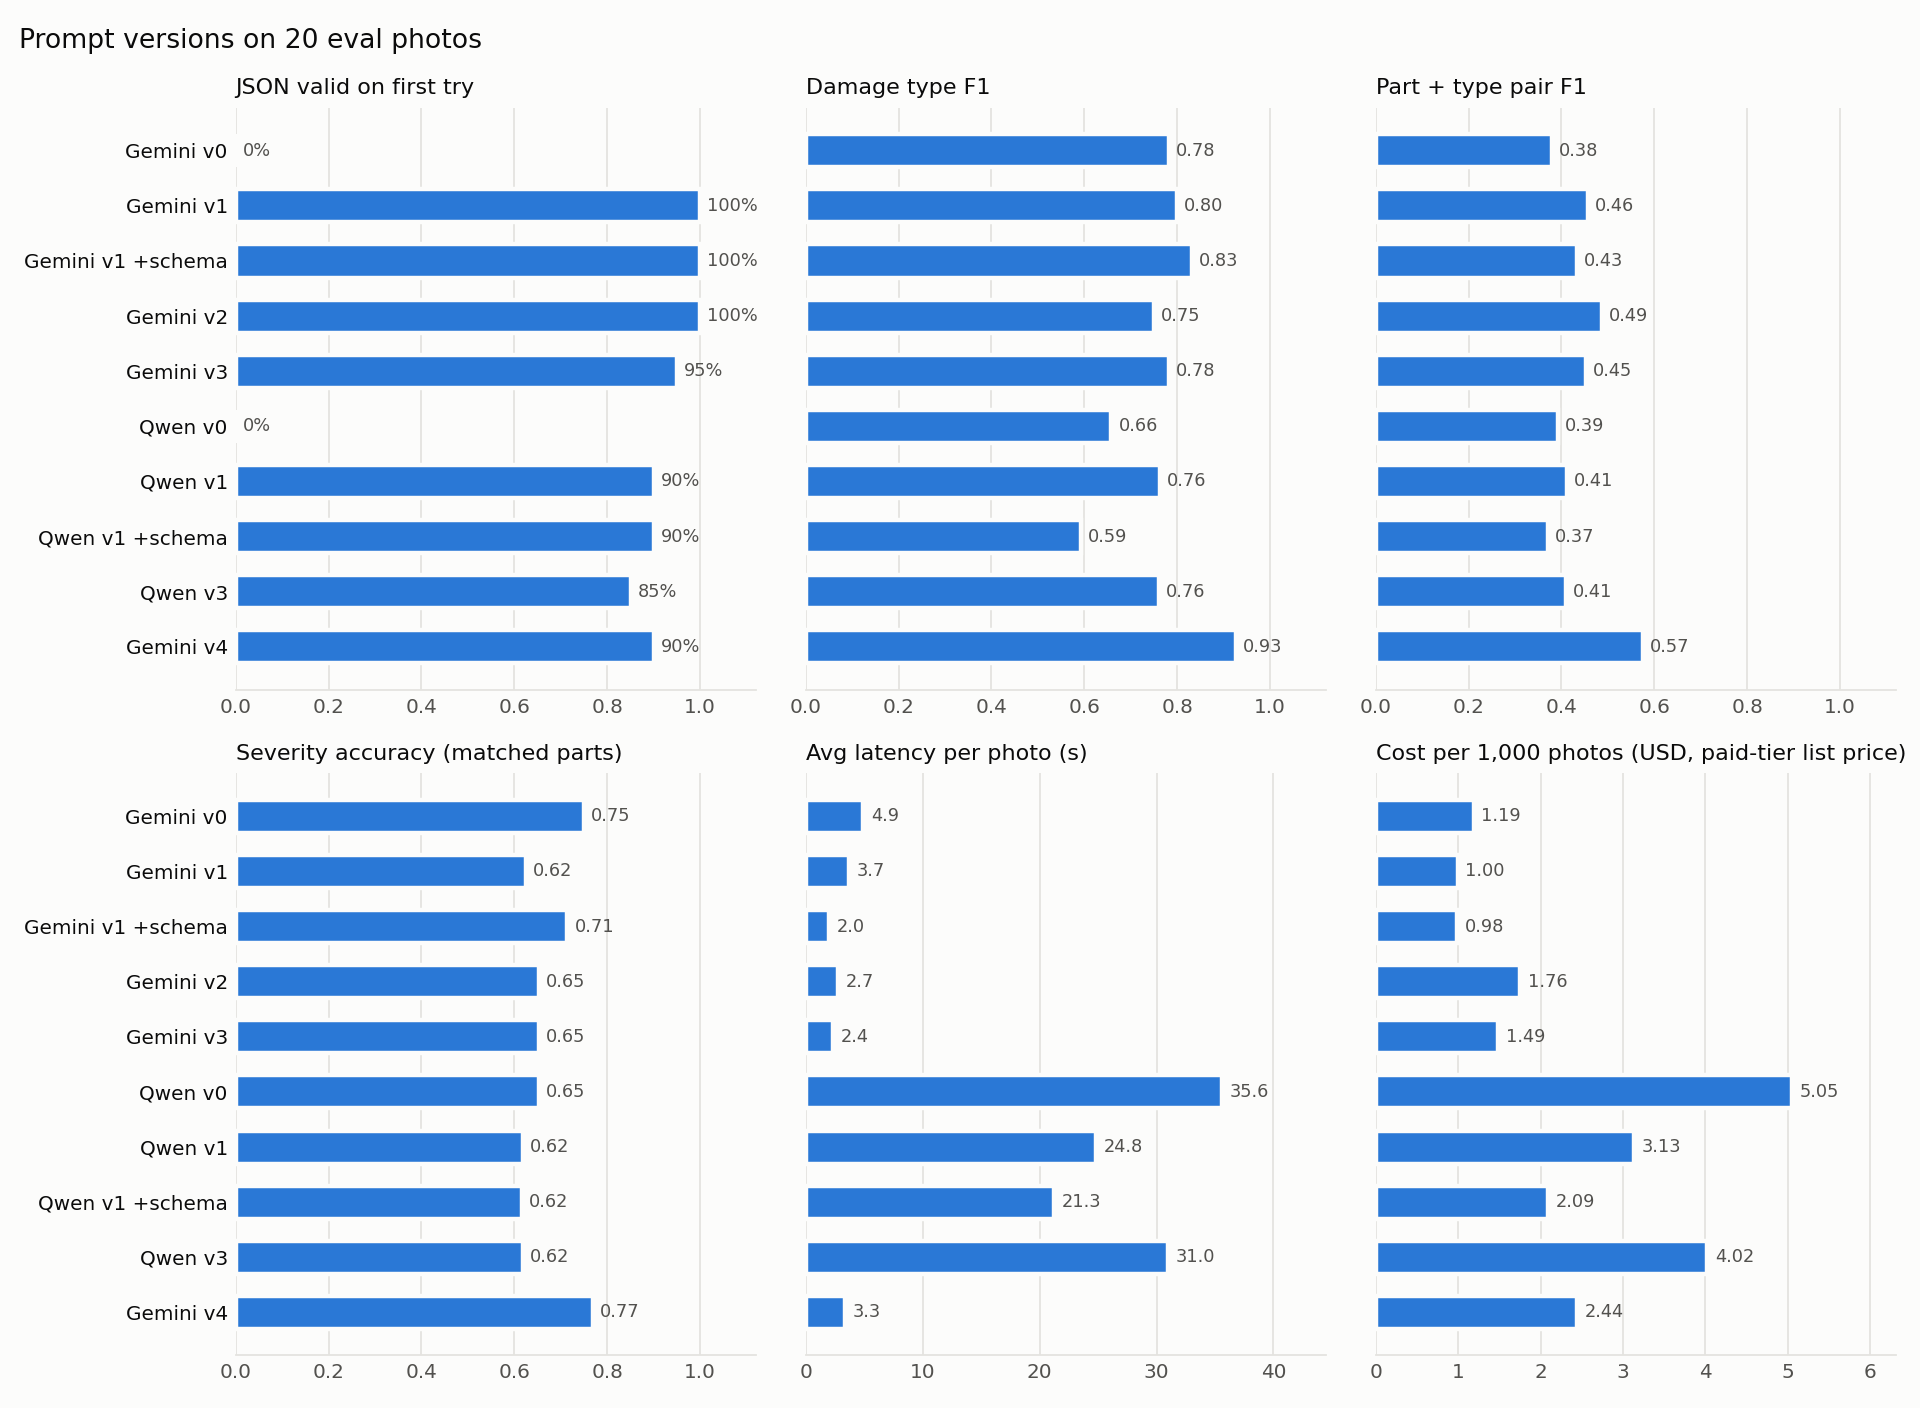
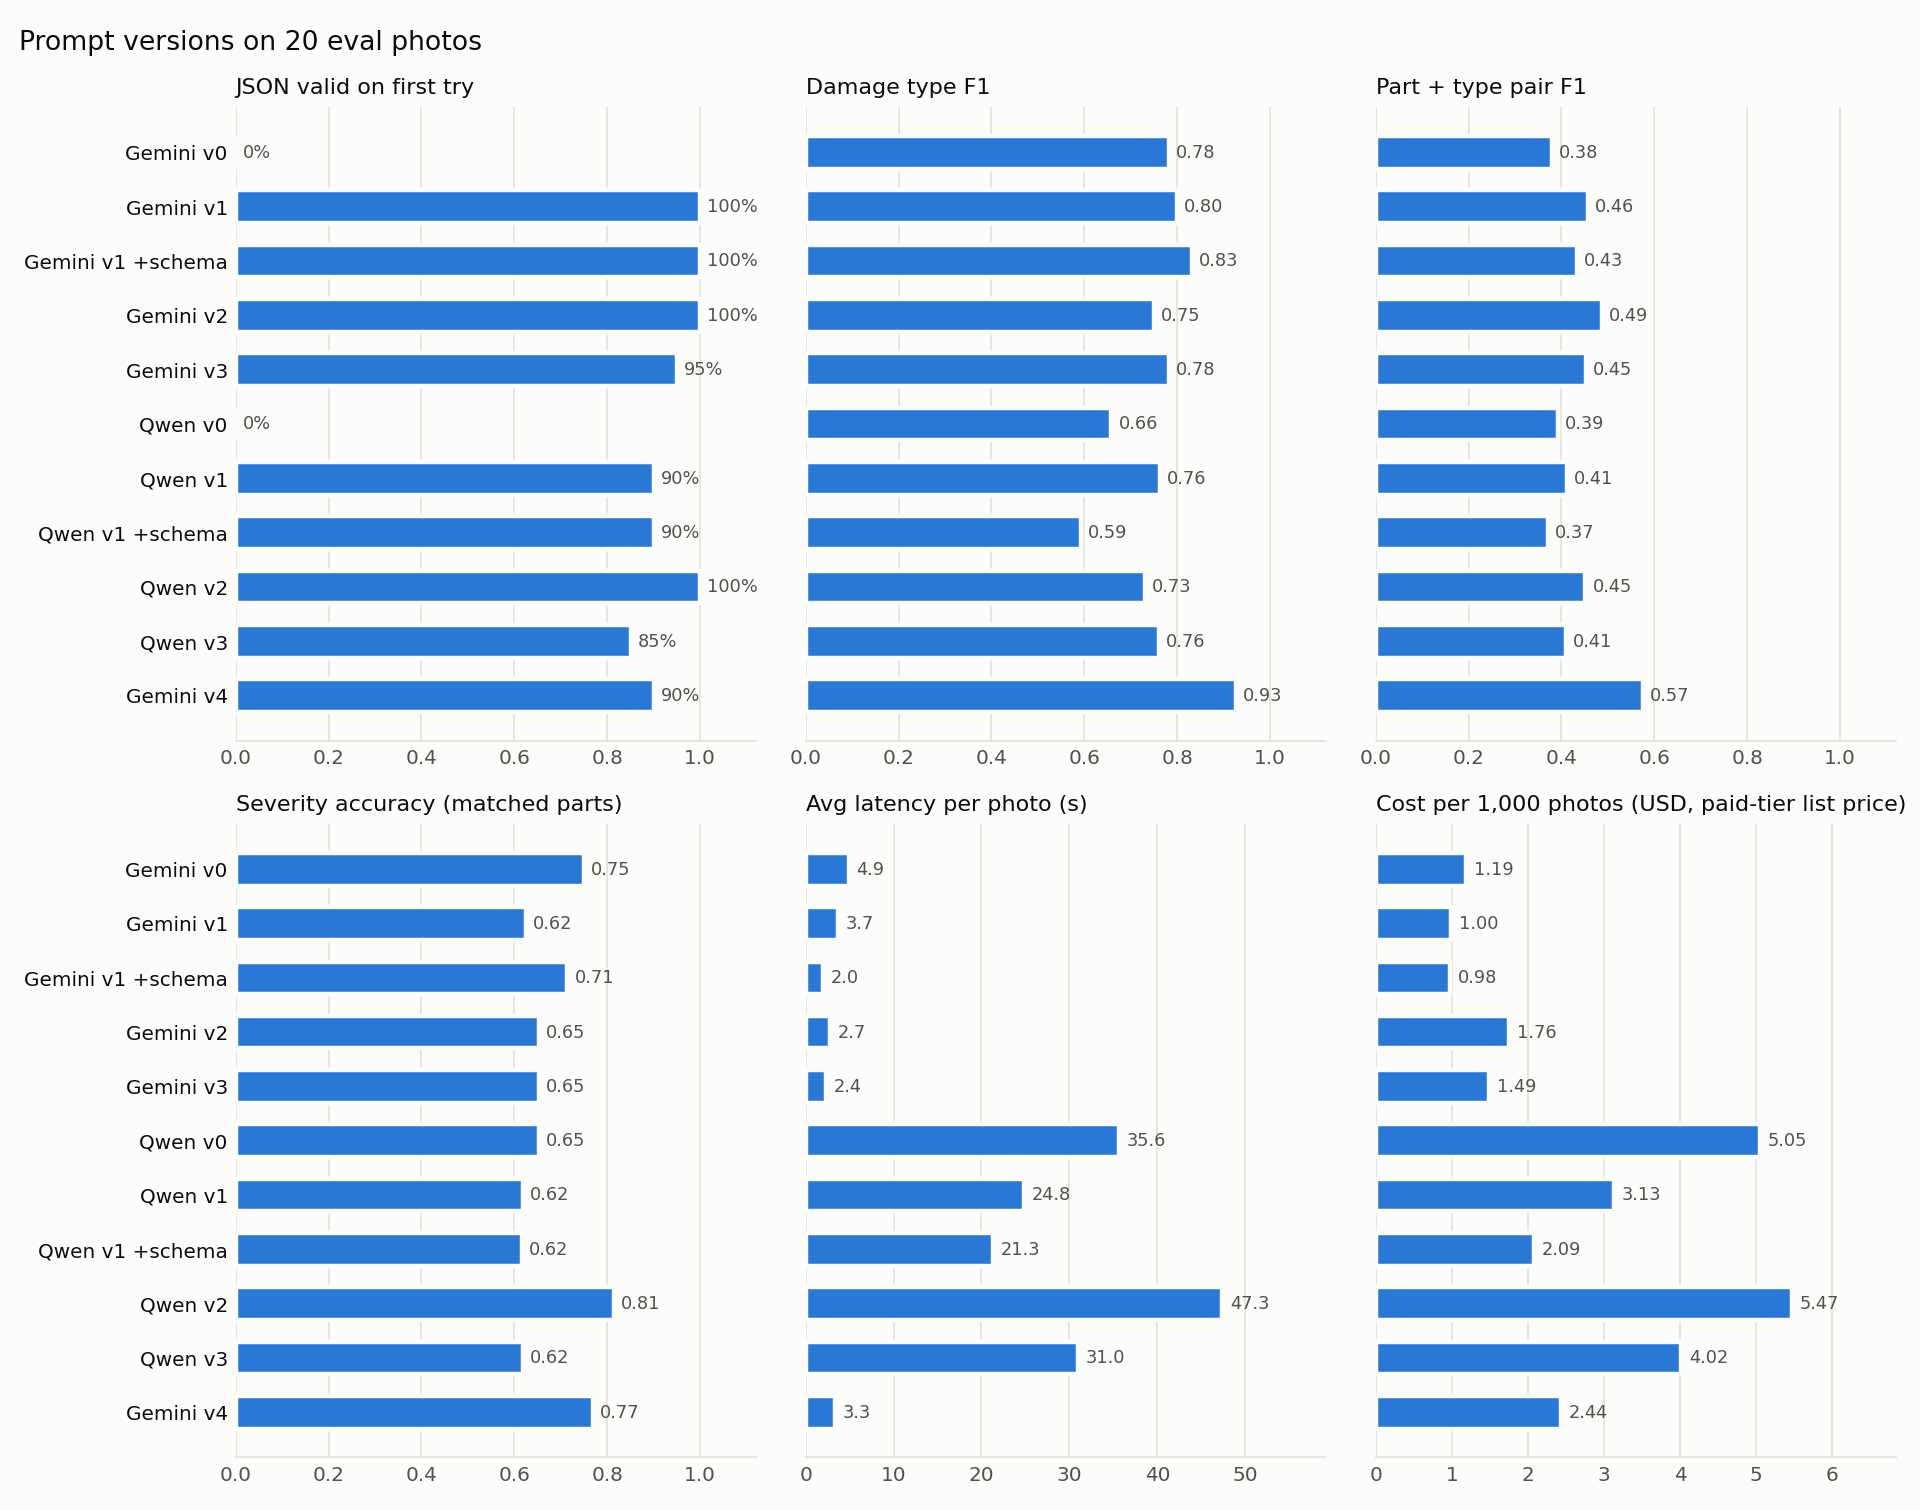
results: complete Qwen v2 evaluation and update report

diff --git a/docs/role1/RESULTS.md b/docs/role1/RESULTS.md
@@ -24,9 +24,9 @@ The runner records predictions and per-image outcomes under `eval/results/`. The
 | Qwen/Groq / v1 structured | 20 | .763 (.595–.891) | .450 (.250–.651) | 90% | 0.10 | 24.787 | 2,408 / 302 | .003133 |
 | Qwen/Groq / v1 + schema | 20 | .593 (.367–.772) | .400 (.200–.650) | 90% | 0.00 | 21.268 | 2,070 / 108 | .002086 |
 | Qwen/Groq / v3 CoT | 20 | .761 (.653–.849) | .350 (.150–.550) | 85% | 0.10 | 30.993 | 2,524 / 500 | .004018 |
-| Qwen/Groq / v2 few-shot | 6/20, partial | — | — | — | — | — | — | — |
+| Qwen/Groq / v2 few-shot | 20 | .730 (.581–.850) | .400 (.200–.600) | 100% | 0.00 | 47.335 | 5,633 / 241 | .005469 |
 
-The planned eight-way matrix has seven complete configurations. Qwen v2 stopped at `eval_07` when quota was exhausted; six predictions were recorded. Its summary row marks the run partial and leaves its metrics blank, so no metrics are reported here. Qwen v4 is an extra configuration and was not run.
+All eight planned model/strategy configurations completed a 20-image pass. Qwen v4 is an extra configuration and was not run.
 
 ## Metrics and interpretation
 
@@ -36,15 +36,15 @@ The planned eight-way matrix has seven complete configurations. Qwen v2 stopped 
 - **Average retries:** mean repair attempts per image. Latency and token counts are the per-image means recorded by the runner. Cost is calculated by `eval/run_eval.py` from its configured model rates and recorded token counts.
 - **Bootstrap CIs:** image-level resampling, not independent damage-region resampling. With 20 images, one image is 5 percentage points of exact-set accuracy.
 
-No same-model strategy comparison has non-overlapping damage-type or part-exact bootstrap intervals. Across all completed rows, the only non-overlapping damage-type intervals are Gemini v4 versus Qwen v0, Qwen v1 + schema, and Qwen v3. These are cross-model comparisons; they do not isolate a prompt-strategy effect. No part-exact intervals are disjoint. Therefore, the observed score differences are not evidence of a stable improvement across this small sample. Changes no larger than one image are especially not treated as improvements.
+No same-model strategy comparison has non-overlapping damage-type or part-exact bootstrap intervals. Across all completed rows, the only non-overlapping damage-type intervals are Gemini v4 versus Qwen v0, Qwen v1 + schema, Qwen v2, and Qwen v3. These are cross-model comparisons; they do not isolate a prompt-strategy effect. No part-exact intervals are disjoint. Therefore, the observed score differences are not evidence of a stable improvement across this small sample. Changes no larger than one image are especially not treated as improvements.
 
 Gemini v4 has the highest observed damage-type F1, but it was selected after inspecting these same eval images, so that score is optimistic. The separate Gemini dev check does not confirm the same result: v4 damage-type F1 is .667 on 8 dev images versus .925 on eval, and exact part-set match is 3/8 versus 14/20. The dev labels are unverified, so this check is indicative only.
 
 ## Failure modes and operational trade-offs
 
-The per-image files contain 70 expected-to-opposite-side prediction pairs across the 10 complete configurations. This count repeats the same image when it is evaluated under different prompts; it is not 70 independent images. Side errors persist even in v4 and in CoT. In the `dev_05` mock, the image and label show the car's left side, while the incident text says “driver side”; those conflict for an India right-hand-drive car. The visual-side label is not evidence that the model reversed left and right.
+The per-image files contain 73 expected-to-opposite-side prediction pairs across the 11 complete configurations. This count repeats the same image when it is evaluated under different prompts; it is not 73 independent images. Side errors persist even in v4 and in CoT. In the `dev_05` mock, the image and label show the car's left side, while the incident text says “driver side”; those conflict for an India right-hand-drive car. The visual-side label is not evidence that the model reversed left and right.
 
-Qwen is identified as a 27B model in `docs/role1/DECISIONS.md`; a Gemini parameter count is not reported in this repo. On the matched v1 runs, Qwen averaged 24.787 seconds and $0.003133 per image, versus Gemini's 3.702 seconds and $0.000996. The comparison reflects these recorded runs, not a general model ranking. Qwen v2 has only a partial run and cannot be compared.
+Qwen is identified as a 27B model in `docs/role1/DECISIONS.md`; a Gemini parameter count is not reported in this repo. On the matched v1 runs, Qwen averaged 24.787 seconds and $0.003133 per image, versus Gemini's 3.702 seconds and $0.000996. Qwen v2 recorded .730 damage-type F1 and .400 part exact at 47.335 seconds and $0.005469 per image. These comparisons reflect the recorded runs, not a general model ranking.
 
 ![Evaluation metric panels](../../eval/results/metrics_by_config.png)
 
@@ -54,7 +54,7 @@ Qwen is identified as a 27B model in `docs/role1/DECISIONS.md`; a Gemini paramet
 
 - The eval set is only 20 images; the plan discussed a larger set, but that has not been run.
 - v4 was selected after inspecting the same eval set used for its score.
-- Qwen v2 is incomplete at 6/20; the other three planned Qwen configurations completed 20-image passes. Qwen v1 + schema and v3 include provider-error outputs.
+- All eight planned configurations completed 20-image passes. Qwen v1 + schema and v3 include provider-error outputs.
 - All 10 dev labels are unverified, including both few-shot examples. The 20 eval labels are marked `aarti_verified`.
 - The dev check is small and uses unverified labels. Confidence intervals are wide and overlapping; they do not establish generalization.
 - Qwen v4 is an extra, not-run configuration.

diff --git a/docs/role1/REPORT.md b/docs/role1/REPORT.md
@@ -54,7 +54,7 @@ Damage-type F1 is the micro-aggregated F1 over each image's distinct damage-type
 
 ## III. Results
 
-Seven of the eight planned model/strategy configurations completed a 20-image pass. Qwen v2 stopped after six images when the Groq daily quota was exhausted. Qwen v1 + schema and v3 completed 20-image runs but include provider-error outputs.
+All eight planned model/strategy configurations completed a 20-image pass. Qwen v1 + schema and v3 completed 20-image runs but include provider-error outputs.
 
 | Model / prompt | Images | Damage-type F1 (95% CI) | Part exact (95% CI) | First-try JSON | Avg. retries | Latency (s) | Avg. tokens in/out | Cost (USD/image) |
 |---|---:|---:|---:|---:|---:|---:|---:|---:|
@@ -68,13 +68,13 @@ Seven of the eight planned model/strategy configurations completed a 20-image pa
 | Qwen/Groq / v1 structured | 20 | .763 (.595–.891) | .450 (.250–.651) | 90% | 0.10 | 24.787 | 2,408 / 302 | .003133 |
 | Qwen/Groq / v1 + schema | 20 | .593 (.367–.772) | .400 (.200–.650) | 90% | 0.00 | 21.268 | 2,070 / 108 | .002086 |
 | Qwen/Groq / v3 CoT | 20 | .761 (.653–.849) | .350 (.150–.550) | 85% | 0.10 | 30.993 | 2,524 / 500 | .004018 |
-| Qwen/Groq / v2 few-shot | 6/20, partial | not run yet | not run yet | not run yet | not run yet | not run yet | not run yet | not run yet |
+| Qwen/Groq / v2 few-shot | 20 | .730 (.581–.850) | .400 (.200–.600) | 100% | 0.00 | 47.335 | 5,633 / 241 | .005469 |
 
-Gemini v4 has the highest observed damage-type F1, .925 (95% CI .866–.984), and part exact match .700 (95% CI .500–.900). It averaged 4,979 input tokens and 378 output tokens per image, 3.328 seconds latency, and $0.002439 per image. On the matched v1 runs, Gemini recorded .800 damage-type F1 and .650 part exact match at 3.702 seconds and $0.000996 per image; Qwen recorded .763 and .450 at 24.787 seconds and $0.003133 per image.
+Gemini v4 has the highest observed damage-type F1, .925 (95% CI .866–.984), and part exact match .700 (95% CI .500–.900). It averaged 4,979 input tokens and 378 output tokens per image, 3.328 seconds latency, and $0.002439 per image. On the matched v1 runs, Gemini recorded .800 damage-type F1 and .650 part exact match at 3.702 seconds and $0.000996 per image; Qwen recorded .763 and .450 at 24.787 seconds and $0.003133 per image. Qwen v2 recorded .730 damage-type F1 and .400 part exact match at 47.335 seconds and $0.005469 per image.
 
-No same-model strategy comparison has non-overlapping bootstrap intervals for damage-type F1 or part exact match. The only separated damage-type intervals among completed configurations are cross-model comparisons involving Gemini v4 and Qwen v0, Qwen v1 + schema, or Qwen v3. These do not isolate prompt effects. No part-exact intervals are disjoint. The observed score differences therefore do not establish a stable prompt improvement.
+No same-model strategy comparison has non-overlapping bootstrap intervals for damage-type F1 or part exact match. The only separated damage-type intervals among completed configurations are cross-model comparisons involving Gemini v4 and Qwen v0, Qwen v1 + schema, Qwen v2, or Qwen v3. These do not isolate prompt effects. No part-exact intervals are disjoint. The observed score differences therefore do not establish a stable prompt improvement.
 
-The v4 eval score is optimistic because v4 was selected after inspecting the same 20 eval images. On the separate, unverified dev labels, v4 damage-type F1 is .667 over 8 images and part exact is 3/8, versus .925 and 14/20 on eval. Side confusion also remains: the per-image records contain 70 expected-to-opposite-side prediction pairs across 10 completed configurations, counting repeated image/configuration cases rather than independent examples.
+The v4 eval score is optimistic because v4 was selected after inspecting the same 20 eval images. On the separate, unverified dev labels, v4 damage-type F1 is .667 over 8 images and part exact is 3/8, versus .925 and 14/20 on eval. Side confusion also remains: the per-image records contain 73 expected-to-opposite-side prediction pairs across 11 completed configurations, counting repeated image/configuration cases rather than independent examples.
 
 ![Evaluation metric panels](../../eval/results/metrics_by_config.png)
 
@@ -82,7 +82,7 @@ The v4 eval score is optimistic because v4 was selected after inspecting the sam
 
 ### Limitations
 
-The scored sample contains only 20 images, much smaller than the planned dataset scale. The dev labels, including both few-shot examples, are unverified. Qwen v2 is incomplete at 6/20, and two full Qwen configurations include provider errors. Gemini v4 was tuned after inspecting the same eval set used for its score. Left/right part errors persist across completed configurations. The confidence intervals are wide, and the measurements do not establish generalization, insurance readiness, or a robust ranking between models. Any final paper should keep the partial Qwen v2 result and these limitations visible.
+The scored sample contains only 20 images, much smaller than the planned dataset scale. The dev labels, including both few-shot examples, are unverified. All eight planned configurations completed 20-image runs, but Qwen v1 + schema and v3 include provider-error outputs. Gemini v4 was tuned after inspecting the same eval set used for its score. Left/right part errors persist across completed configurations. The confidence intervals are wide, and the measurements do not establish generalization, insurance readiness, or a robust ranking between models. Any final paper should keep these limitations visible.
 
 ## References
 

diff --git a/docs/role1/REVIEW3_SLIDE.md b/docs/role1/REVIEW3_SLIDE.md
@@ -2,11 +2,11 @@
 
 ## Results slide
 
-**Headline:** Gemini v4 leads the observed damage-type score, but 20 eval images and overlapping intervals do not establish a robust prompt win.
+**Headline:** All eight planned runs are complete; the 20-image eval and overlapping intervals do not establish a robust prompt win.
 
 - Gemini v4: damage-type F1 **.925** (95% bootstrap CI **.866–.984**); exact part-set match **.700** (CI **.500–.900**).
-- Seven of eight planned configurations completed; Qwen v2 stopped at **6/20** on Groq quota. Qwen v1 + schema and v3 completed with some provider errors.
-- Left/right errors remain: **70** expected-to-opposite-side prediction pairs across the 10 completed configurations, counting repeated image/configuration cases.
+- Qwen v2: damage-type F1 **.730** (CI **.581–.850**); exact part-set match **.400** (CI **.200–.600**); **100%** first-try JSON.
+- Left/right errors remain: **73** expected-to-opposite-side prediction pairs across 11 completed configurations, counting repeated image/configuration cases.
 
 **Chart:** show `eval/results/metrics_by_config.png`; use `eval/results/part_f1_exact_vs_corner_free.png` if asked about side confusion. State that v4 was selected on the same eval set and the dev check did not reproduce its damage-type score.
 
@@ -22,7 +22,7 @@
    No. It has the highest observed damage-type F1, but it was selected after looking at these eval images. All same-model strategy CIs overlap, and dev v4 scored .667 on 8 images.
 
 4. **How do you define left and right?**  
-   They are the vehicle's own sides from a forward-facing driver's perspective. The prompts include this rule; v4 adds view-orientation rules. Despite that, the results contain 70 opposite-side prediction pairs across completed configurations.
+   They are the vehicle's own sides from a forward-facing driver's perspective. The prompts include this rule; v4 adds view-orientation rules. Despite that, the results contain 73 opposite-side prediction pairs across completed configurations.
 
 5. **What remains incomplete?**  
-   Qwen v2 has 6/20 results after quota exhaustion. Ten dev labels, including the two few-shot examples, are unverified. Python 3.9.6 was unavailable for a runtime test.
+   The planned eight model/strategy runs are complete. Ten dev labels, including the two few-shot examples, remain unverified; Qwen v1 + schema and v3 include provider-error outputs.

diff --git a/docs/role1/HANDOFF_MESSAGE.md b/docs/role1/HANDOFF_MESSAGE.md
@@ -2,7 +2,7 @@
 
 Hi team — Role 1 has the Contract A pipeline, provider adapters, validation/repair flow, prompts, mocks, and evaluation outputs ready for integration. The JSON Schema check passes; the vision tests are included in the repo.
 
-The eight planned model/strategy runs have seven complete 20-image passes. Qwen v2 reached 6/20 and stopped at `eval_07` on Groq quota. To resume tomorrow, run this from the repo root; the first six replies are cached:
+All eight planned model/strategy runs have complete 20-image passes. Qwen v2 completed after the Groq quota recovered. To rerun it from the repo root, use:
 
 ```powershell
 python -m eval.run_eval --configs groq_v2
@@ -25,7 +25,7 @@ Known integration notes:
 - `load_image(path)` reads a disk path. The Streamlit app receives uploaded bytes and constructs `ImageInput` directly; `src/vision/adapter.py` now exposes `run_vision(...)` for byte input.
 - The original `assess_damage` can raise for invalid vehicle data or prompt-loading failures rather than returning `VisionError`. The adapter catches these and returns a structured error dict.
 - Python 3.9.6 is not installed here, so its environment has not been tested.
-- Qwen v1 + schema and v3 completed their 20-image runs, but include provider-error responses; Qwen v2 remains partial. Qwen v4 is an extra configuration and has not been run.
+- Qwen v1 + schema and v3 completed their 20-image runs, but include provider-error responses. Qwen v2 completed its 20-image run with no provider errors. Qwen v4 is an extra configuration and has not been run.
 - All 10 dev labels, including the few-shot examples, remain unverified. The 20 eval labels are marked `aarti_verified`.
 
 The demo's current provider/prompt defaults are Gemini and `v4_best`. Since v4 was selected after reviewing the same 20 eval images, its score should be presented as exploratory, not as an unbiased final estimate.

diff --git a/README.md b/README.md
@@ -83,13 +83,13 @@ The table below is copied from [`docs/role1/RESULTS.md`](docs/role1/RESULTS.md).
 | Qwen/Groq / v1 structured | 20 | .763 (.595–.891) | .450 (.250–.651) | 90% | 0.10 | 24.787 | 2,408 / 302 | .003133 |
 | Qwen/Groq / v1 + schema | 20 | .593 (.367–.772) | .400 (.200–.650) | 90% | 0.00 | 21.268 | 2,070 / 108 | .002086 |
 | Qwen/Groq / v3 CoT | 20 | .761 (.653–.849) | .350 (.150–.550) | 85% | 0.10 | 30.993 | 2,524 / 500 | .004018 |
-| Qwen/Groq / v2 few-shot | 6/20, partial | — | — | — | — | — | — | — |
+| Qwen/Groq / v2 few-shot | 20 | .730 (.581–.850) | .400 (.200–.600) | 100% | 0.00 | 47.335 | 5,633 / 241 | .005469 |
 
 ### Limitations
 
 - The scored evaluation set contains 20 images; a larger set has not been run.
 - The v4 prompt was selected after inspecting the same evaluation set, so its score is optimistic.
-- Qwen v2 is partial at 6/20 after quota exhaustion. Qwen v1 + schema and v3 include provider-error outputs.
+- All eight planned configurations completed 20-image runs. Qwen v1 + schema and v3 include provider-error outputs.
 - All 10 dev labels are unverified. The 20 eval labels are marked `aarti_verified`.
 - Left/right part confusion remains a failure mode. Dataset images are not distributed with this repository.
 
